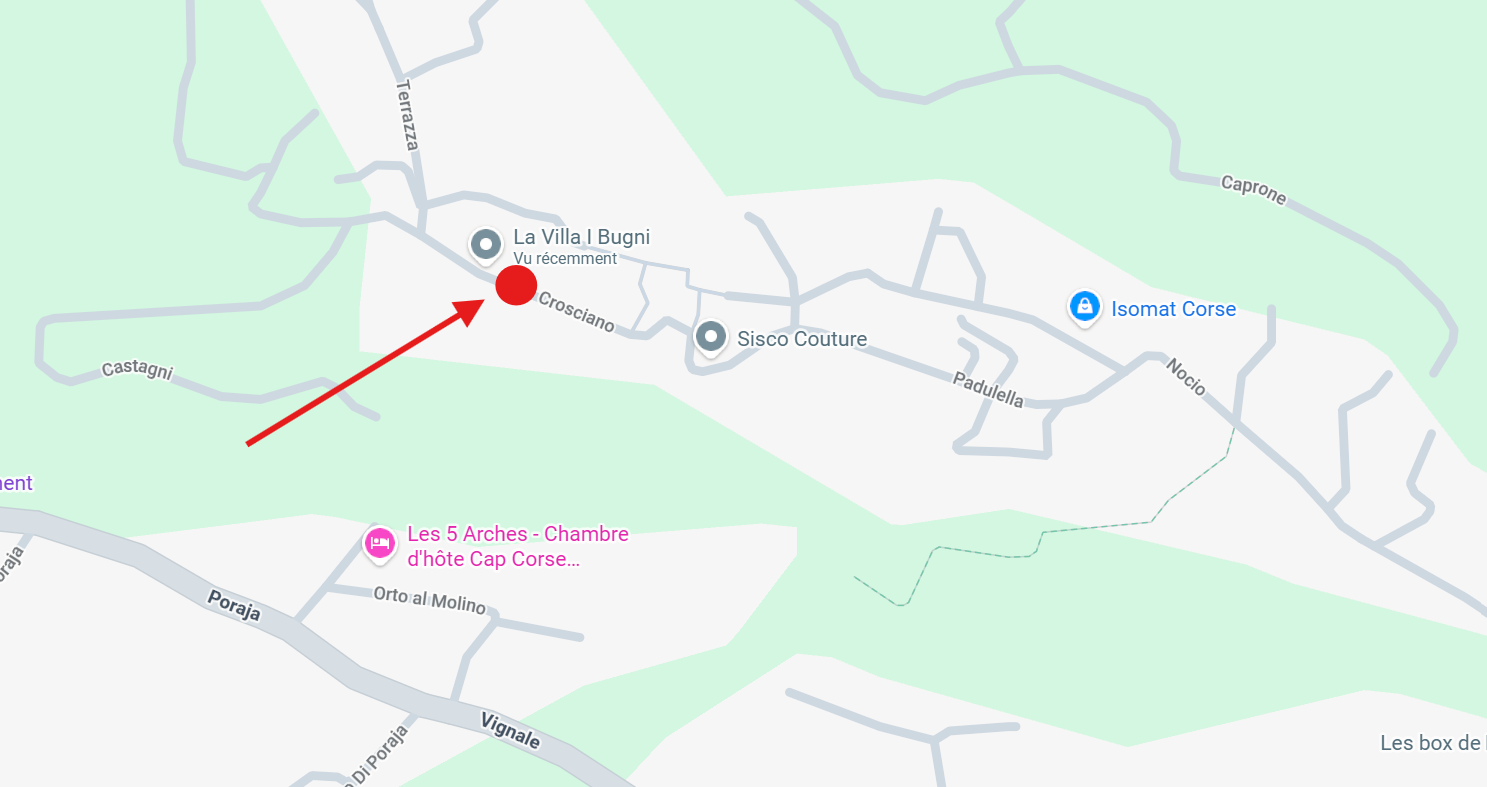
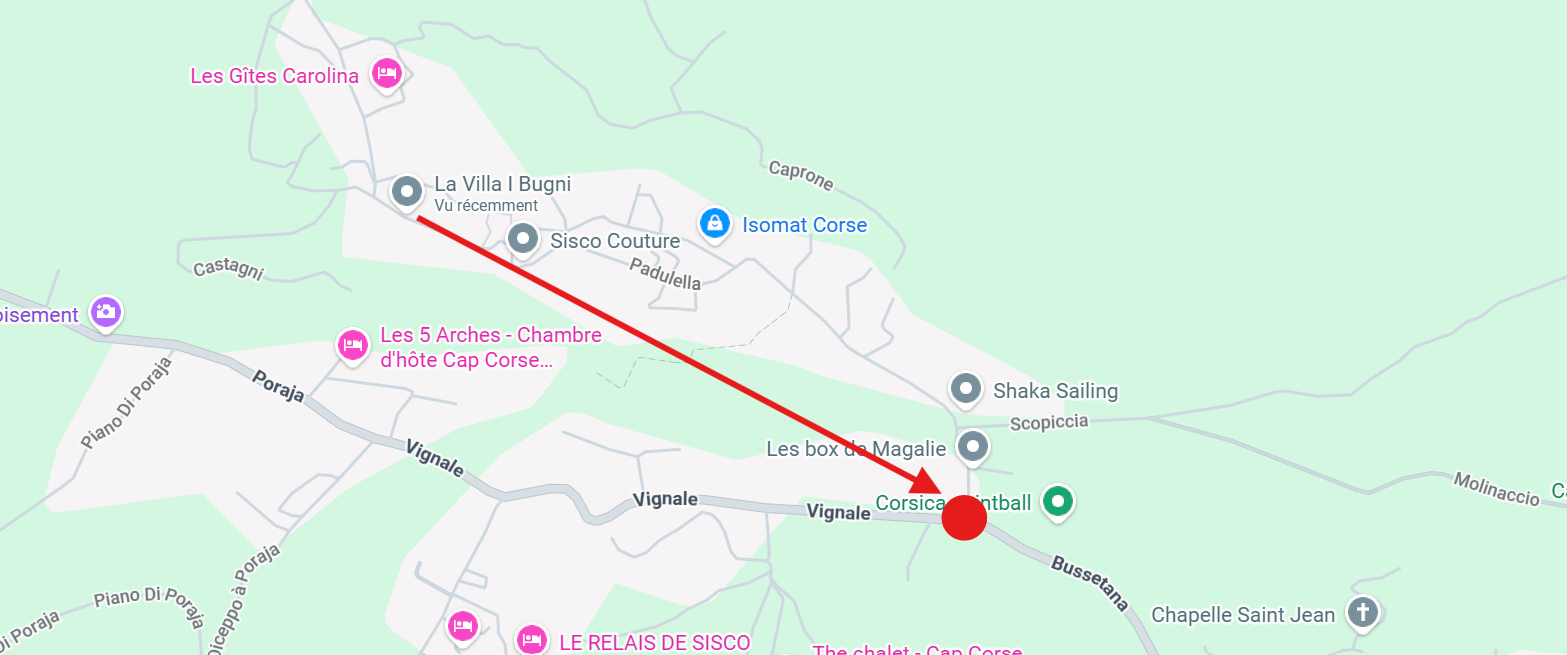
update bus

diff --git a/en/index.html b/en/index.html
@@ -68,18 +68,17 @@
                     <li><strong>3:40 PM</strong> for those staying at the Sisco marina (Hôtel U Pozzu or other) – meeting point: in front of the Hôtel U Pozzu. 49-seater bus.
                     <img src="../assets/marine.png" alt="Meeting point at the Sisco marina" class="rdv-img">
                     </li>
-                    <li><strong>3:45 PM</strong> for those staying at 1001 Nuits – meeting point: on the D32. 49-seater bus.
-                    <img src="../assets/1001nuits.png" alt="Meeting point for 1001 Nuits" class="rdv-img">
+                    <li><strong>3:45 PM</strong> for those staying at 1001 Nuits – meeting point: in front of the entrance. 49-seater bus.
                     </li>
-                    <li><strong>3:50 PM</strong> for those staying in Crosciano – meeting point: in front of the Villa Bugni. 49-seater bus.
+                    <li><strong>3:50 PM</strong> for those staying in Crosciano – meeting point: on the D32, at the entrance of the village (10 min walk). 49-seater bus.
                     <img src="../assets/crosciano.png" alt="Meeting point in Crosciano" class="rdv-img">
                     </li>
                     <li><strong>3:55 PM</strong> for those staying at Les 5 Arches. Meeting point on the D32. 49-seater bus.
                     <img src="../assets/5arches.png" alt="Meeting point for Les 5 Arches" class="rdv-img">
                     </li>
-                    <li><strong>4:00 PM</strong> for those staying at the Relais de Sisco, at the Ferme U San Martinu. Meeting point on the D32. 23-seater bus.
+                    <li><strong>4:00 PM</strong> for those staying at the Relais de Sisco or the Ferme U San Martinu. Meeting point on the D32. 23-seater bus.
                     <img src="../assets/relais_martinu.png" alt="Meeting point for the Relais de Sisco" class="rdv-img">
-                    
+                    </li>
                     <li><strong>4:05 PM</strong> for those staying in Balba. Meeting point on the D32. 49-seater bus.
                     <img src="../assets/balba.png" alt="Meeting point in Balba" class="rdv-img">
                     </li>

diff --git a/index.html b/index.html
@@ -68,16 +68,18 @@
                     <li><strong>15H40</strong> pour les personnes logeant à la marine de Sisco (au Pozzu ou autre) – lieu de rdv : devant l'hôtel U Pozzu. Bus 49 places.
                     <img src="assets/marine.png"  class="rdv-img">
                     </li>
-                    <li><strong>15H45</strong> pour les personnes logeant au 1001 nuits – lieu de rdv : sur la D32. Bus 49 places.
-                    <img src="assets/1001nuits.png"  class="rdv-img">
+                    <li><strong>15H45</strong> pour les personnes logeant au 1001 nuits – lieu de rdv : devant l'entrée de l'hôtel. Bus 49 places.
                     </li>
-                    <li><strong>15H50</strong> pour les personnes logeant à Crosciano - devant la villa Bugni. Bus 49 places.
+                    
+                    <li><strong>15H50</strong> pour les personnes logeant à Crosciano - lieu de rdv: sur la D32, à l'entrée du village (10 min de marche). Bus 49 places.
                     <img src="assets/crosciano.png"  class="rdv-img">
                     </li>
+
                     <li>
                     <strong>15h55</strong> pour les personnes logeant aux 5 arches. Lieu de rdv sur la D32. Bus 49 places.
                     <img src="assets/5arches.png" class="rdv-img">
                     </li>
+
                     <li>
                     <strong>16h00</strong> pour les personnes logeant au Relais de Sisco ou à la ferme U San Martinu. Lieu de rdv sur la D32. Bus 23 places.
                     <img src="assets/relais_martinu.png" class="rdv-img">